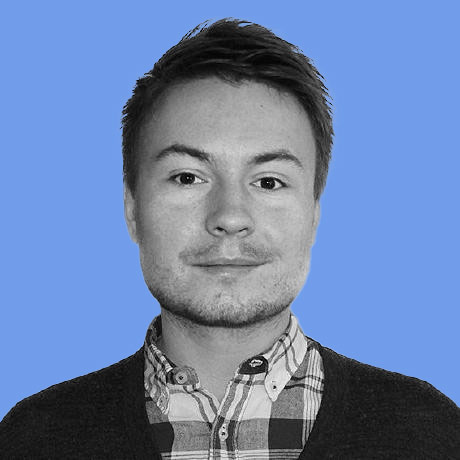
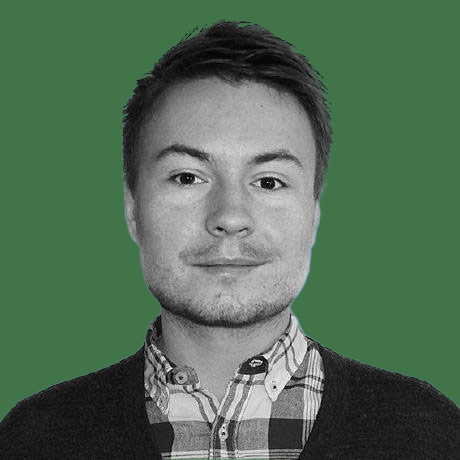
wip

diff --git a/css/_speakers.scss b/css/_speakers.scss
@@ -5,28 +5,19 @@
 }
 
 .speakers-divider-top {
-  background-image: url(/images/backgrounds/speakers-top-bkg.png);
-  background-repeat: repeat-x;
-  background-size: contain;
-  height: 2.5rem;
-}
-
-.speakers-divider-bottom {
-  background-image: url(/images/backgrounds/speakers-bottom-bkg.png);
-  background-repeat: repeat-x;
-  background-size: contain;
+  background-image: url(/images/backgrounds/speakers-top-bkg.svg);
+  background-size: cover;
   height: 2.5rem;
 }
 
 .speakers-section {
-  background: $blue-050;
+  background: $blue-200;
   text-align: center;
   margin-top: 5rem;
   display: flex;
   gap: 4rem;
   flex-direction: column;
 }
-
 
 .speakers-list {
   display: flex;
@@ -65,22 +56,33 @@
   @media (max-width: 600px) {
     margin-bottom: 0;
   }
-  
-  .speaker-link{
-    background: $blue-300;
 
-    &:hover,
-    &:active {
-      background: $blue-400;
+   &--green {
+    .speaker-link{
+      background: $green-500;
+
+      &:hover,
+      &:active {
+        background: $green-400;
+      }
     }
   }
-  
+  &--blue {
+    .speaker-link{
+      background: $blue-400;
+    
+      &:hover,
+      &:active {
+        background: $blue-300;
+      }
+    }
+  }
 }
 
 .speaker-avatar {
   width: 12.625rem;
   border-radius: 50%;
-  border: 1rem solid #fff;
+  border: 1rem solid $beige;
   overflow: clip;
   margin-bottom: 2rem;
 
@@ -110,7 +112,7 @@
   @media (max-width: 600px) {
     margin-bottom: 0.5rem;
   }
-  color: $blue-600;
+  color: $beige;
 }
 
 .speaker-links {

diff --git a/css/_variables.scss b/css/_variables.scss
@@ -4,21 +4,20 @@ $tablet-breakpoint: 768px;
 $mobile-breakpoint: 576px;
 
 //colors
-
-$orange: #EB7F19;
-$brown: #A85B23;
-$blue-050: #EEF3FF;
-$blue-100: #F0F4FF;
-$blue-200: #D9E4FE;
-$blue-300: #719DEA;
-$blue-400: #314199;
-$blue-500: #26266D;
-$blue-600: #171F56;
 $white: #ffffff;
-$beige: #FFF8EE;
 $black: #000;
+$beige: #EFEFDA;
+$cream: #FDEFB2;
+$scotch-grey: #B4CCBF;
+$blue-200: #6DA2B4;
+$blue-300: #2F91AC;
+$blue-400: #15496E;
+$blue-500: #201D16;
+$green-300: #A6BA8A;
+$green-400: #407448;
+$green-500: #1E421E;
+
 
 // shadow
-
 $shadow: drop-shadow(0rem 0.25rem 0.25rem rgba(38, 38, 109, 0.25));
 

diff --git a/css/_schedule.scss b/css/_schedule.scss
@@ -40,7 +40,7 @@
 
 
     tbody {
-      color: $blue-600;
+      color: $blue-500;
     }
 
     .btn-primary {
@@ -426,10 +426,10 @@
   
     table {
       width: 100%;
-      color: $blue-600;
+      color: $blue-500;
   
       a {
-        color: $orange;
+        color: $blue-500;
         text-decoration: underline;
       }
     
@@ -580,16 +580,16 @@
 
       tr:nth-child(odd) {
         .photo {
-          background-color: $orange;
+          background-color: $blue-500;
         }
 
         .speaker-info {
           .speaker-link {
-              background: $orange;
+              background: $blue-500;
             }
 
             .speaker-link:hover {
-              background: $brown;
+              background: $blue-500;
             }
           }
         }

diff --git a/css/_buttons.scss b/css/_buttons.scss
@@ -38,7 +38,7 @@
     text-align: center;
     font-family: postino-std;
     border: .5rem solid white;
-    background-color: $orange;
+    background-color: $blue-500;
     font-size: 3rem;
     font-weight: 500;
     line-height: 1.3;
@@ -68,7 +68,7 @@
 
     &:hover {
       background-color: $white;
-      color: $orange;
+      color: $blue-500;
     }
   }
 
@@ -134,14 +134,14 @@
   }
 
   &:hover::after {
-    background-color: $orange;
+    background-color: $blue-500;
   }
 }
 
 .btn-secondary {
   margin-top:1rem;
   font-size: 1.5rem;
-  background-color: $orange;
+  background-color: $blue-500;
   border-radius: 3rem;
   color: $white;
   padding: .75rem 1.5rem;
@@ -155,7 +155,7 @@
   &:hover, 
   &:active {
     color: $white;
-    background-color: $brown;
+    background-color: $blue-500;
     scale: 1.1; 
     transition: .1s ease-out;
     text-decoration: none;

diff --git a/css/_hero.scss b/css/_hero.scss
@@ -11,6 +11,7 @@
 .date {
   display: block;
   text-align: center;
+  font-weight: 700;
 }
 
 .city {
@@ -32,8 +33,12 @@
     text-align: center;
   }
 
-  .dark-blue {
-    color: #195bce;
+  .hero-logo {
+    color: $cream;
+  }
+
+  .blue {
+    color: $blue-300;
   }
 }
 

diff --git a/css/_sponsors.scss b/css/_sponsors.scss
@@ -4,6 +4,13 @@
   display: flex;
   flex-direction: column;
   align-items: center;
+  background: $blue-200;
+}
+
+.sponsors-divider-bottom {
+  background-image: url(/images/backgrounds/sponsors-bottom-bkg.svg);
+  background-size: cover;
+  height: 2.5rem;
 }
 
 .sponsor-section-wrapper {
@@ -15,7 +22,7 @@
   li a {
     filter: $shadow;
     padding: 1.5rem 3rem;
-    background-color: white;
+    background-color: $beige;
     border-radius: 9999px;
     text-align: center;
     display: flex;

diff --git a/css/_header.scss b/css/_header.scss
@@ -1,12 +1,12 @@
 header {
   padding-top: 1rem;
-  background: $white;
+  background: $cream;
+  color: $blue-400;
 }
 
 .header-divider {
-  background-image: url(/images/backgrounds/header-bkg.png);
-  background-repeat: repeat-x;
-  background-size: contain;
+  background-image: url(/images/backgrounds/header-bkg.svg);
+  background-size: cover;
   height: 2.5rem;
 }
 

diff --git a/css/_fonts.scss b/css/_fonts.scss
@@ -4,11 +4,11 @@ body {
   font-family: "pill-gothic-900mg", sans-serif;
   font-weight: 700;
   font-style: normal;
-  color: $blue-400;
+  color: $blue-500;
 }
 
 ::selection {
-  background: $orange;
+  background: $blue-500;
   color: $beige;
 }
 
@@ -71,6 +71,7 @@ h4 {
   font-size: 3rem;
   font-weight: 500;
   line-height: 1.3;
+  color: $cream;
 
   @include mobile {
     font-size: 2.5rem;
@@ -91,7 +92,7 @@ h5 {
 }
 
 p, td {
-  color: $blue-600;
+  color: $blue-500;
   font-weight: 300;
   font-size: 1.5rem;
   line-height: 2.4rem;

diff --git a/_includes/speakers.html b/_includes/speakers.html
@@ -1,14 +1,14 @@
 <section class="speakers-section">
   <div class="speakers-divider-top"></div>
-  <div class="past-speakers mb-9">
+  <div class="past-speakers mb-4">
     <h4 class="mb-9">Past speakers</h4>
     <ul class="speakers-list container">
       {% for speaker in site.data.past-speakers %}
       {%- assign mod = forloop.index0 | modulo: 2 -%}
       {% if mod == 0 %}
-      {% assign color = 'blue' %}
+      {% assign color = 'green' %}
       {% else %}
-      {% assign color = 'orange' %}
+      {% assign color = 'blue' %}
       {% endif %}
       <li class="speaker-card speaker-card--{{ color }}">
         <div class="speaker-avatar">

diff --git a/css/app.scss b/css/app.scss
@@ -24,7 +24,7 @@ html {
 }
 
 body {
-  background-color: $blue-200;
+  background-color: $scotch-grey;
 }
 
 .img-responsive {
@@ -33,9 +33,9 @@ body {
 }
 
 a:hover {
-  color: $orange;
+  color: $blue-500;
   text-decoration: underline;
-  text-decoration-color: $orange;
+  text-decoration-color: $blue-500;
 }
 
 .container {

diff --git a/css/_stay-up-to-date.scss b/css/_stay-up-to-date.scss
@@ -1,5 +1,4 @@
 .stay-up-to-date-divider {
-  background-image: url(/images/backgrounds/speakers-top-bkg.png);
   background-repeat: repeat-x;
   background-size: contain;
   height: 2.5rem;
@@ -15,7 +14,7 @@
   display: flex;
   gap: 5rem;
   flex-direction: column;
-  background: $blue-050;
+  background: $blue-500;
   text-align: center;
 
   form {
@@ -43,7 +42,7 @@
       border-radius: 3rem;
       background: #fff;
       filter: $shadow;
-      color: $blue-600;
+      color: $blue-500;
       font-weight: 400;
       line-height: 38.4px;
       outline: none;

diff --git a/_includes/hero.html b/_includes/hero.html
@@ -8,8 +8,7 @@
     </div>
     <div class="content-layout">
       <div>
-        <h1 class="mb-8"><span class="dark-blue">Ember</span></br>&lcub;&lcub;fest&rcub;&rcub;</h1>
-        <p class="pt-6">EmberFest is back in 2026!</p>
+        <h1 class="mb-8 hero-logo"><span class="blue">Ember</span>&lcub;&lcub;fest&rcub;&rcub;</h1>
         <p class="pt-6">Emberfest is the European Community Ember Conference. If you’re looking for updates on the
           latest and greatest in Ember and Glimmer this is the place to be. EmberFest is also a great opportunity to get
           in touch with the European Ember Community (and friends from abroad) and hiring Ember talent.</p>